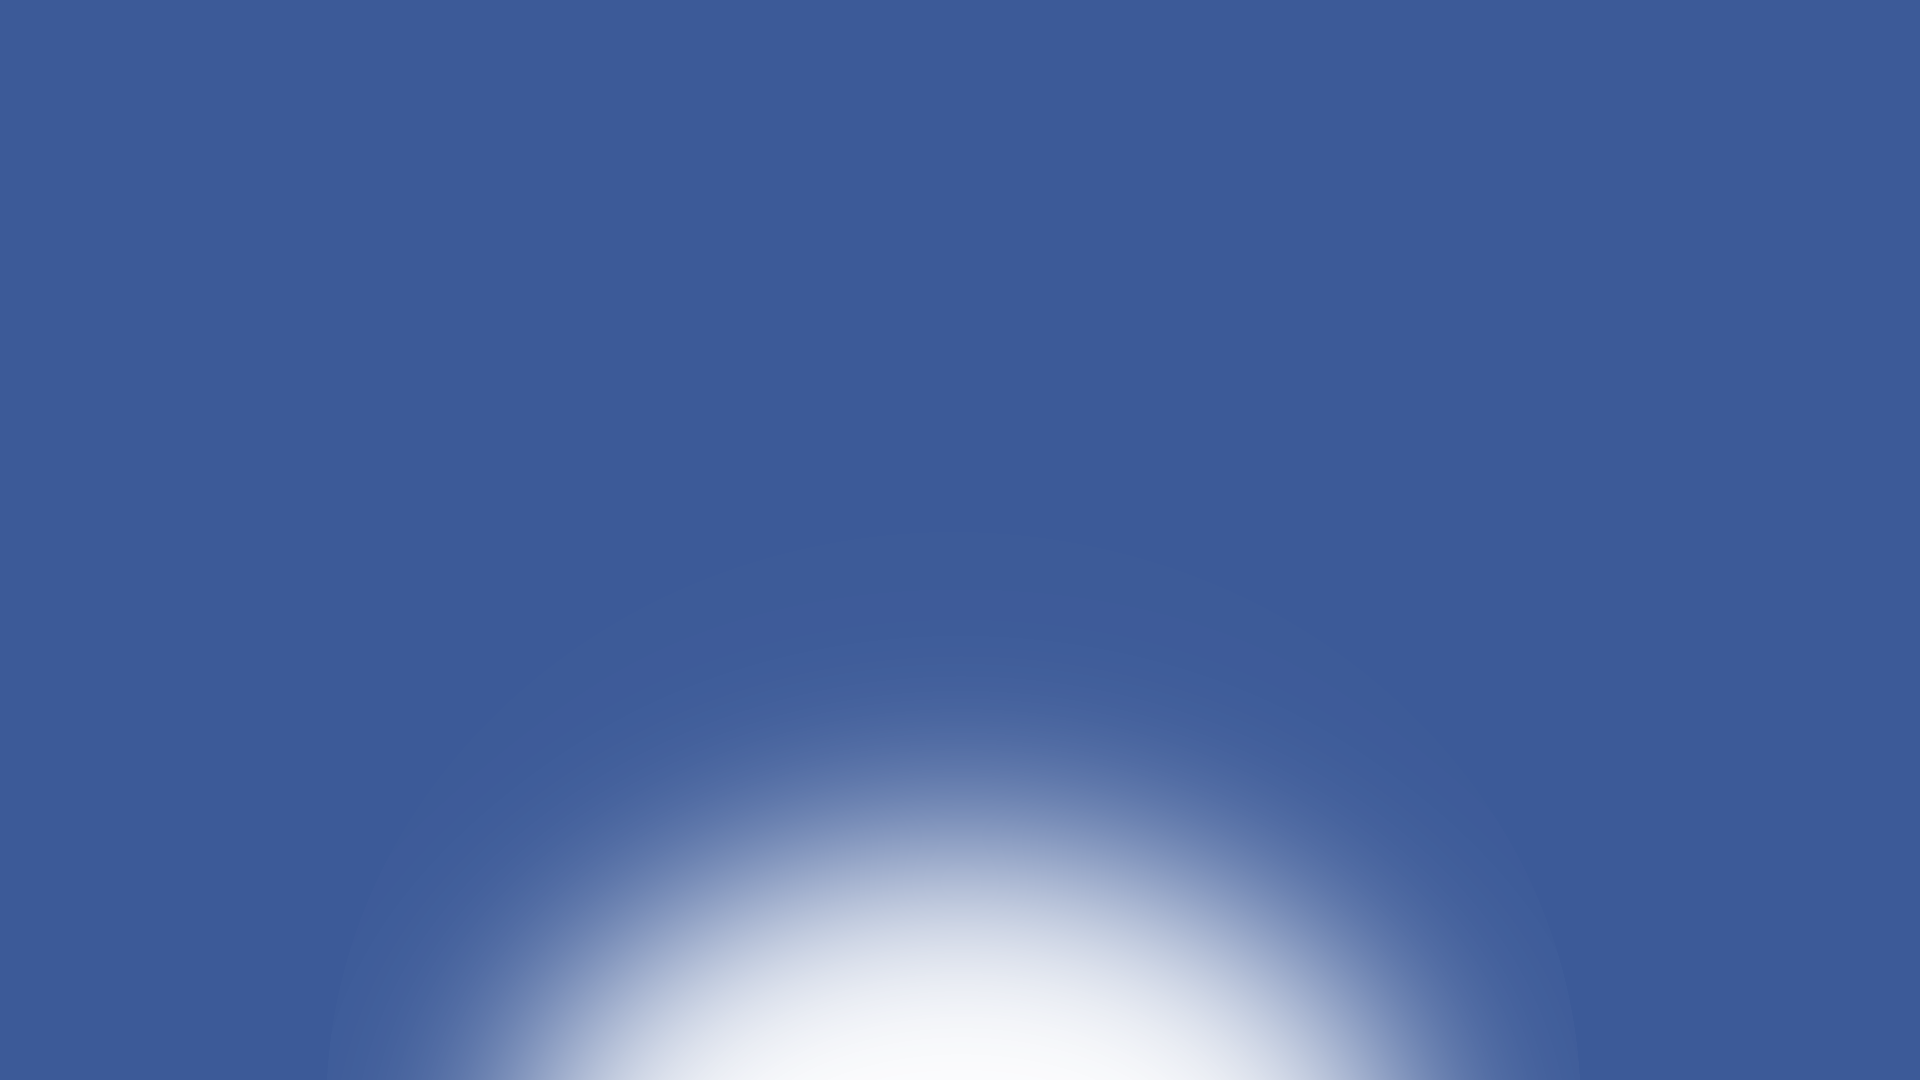
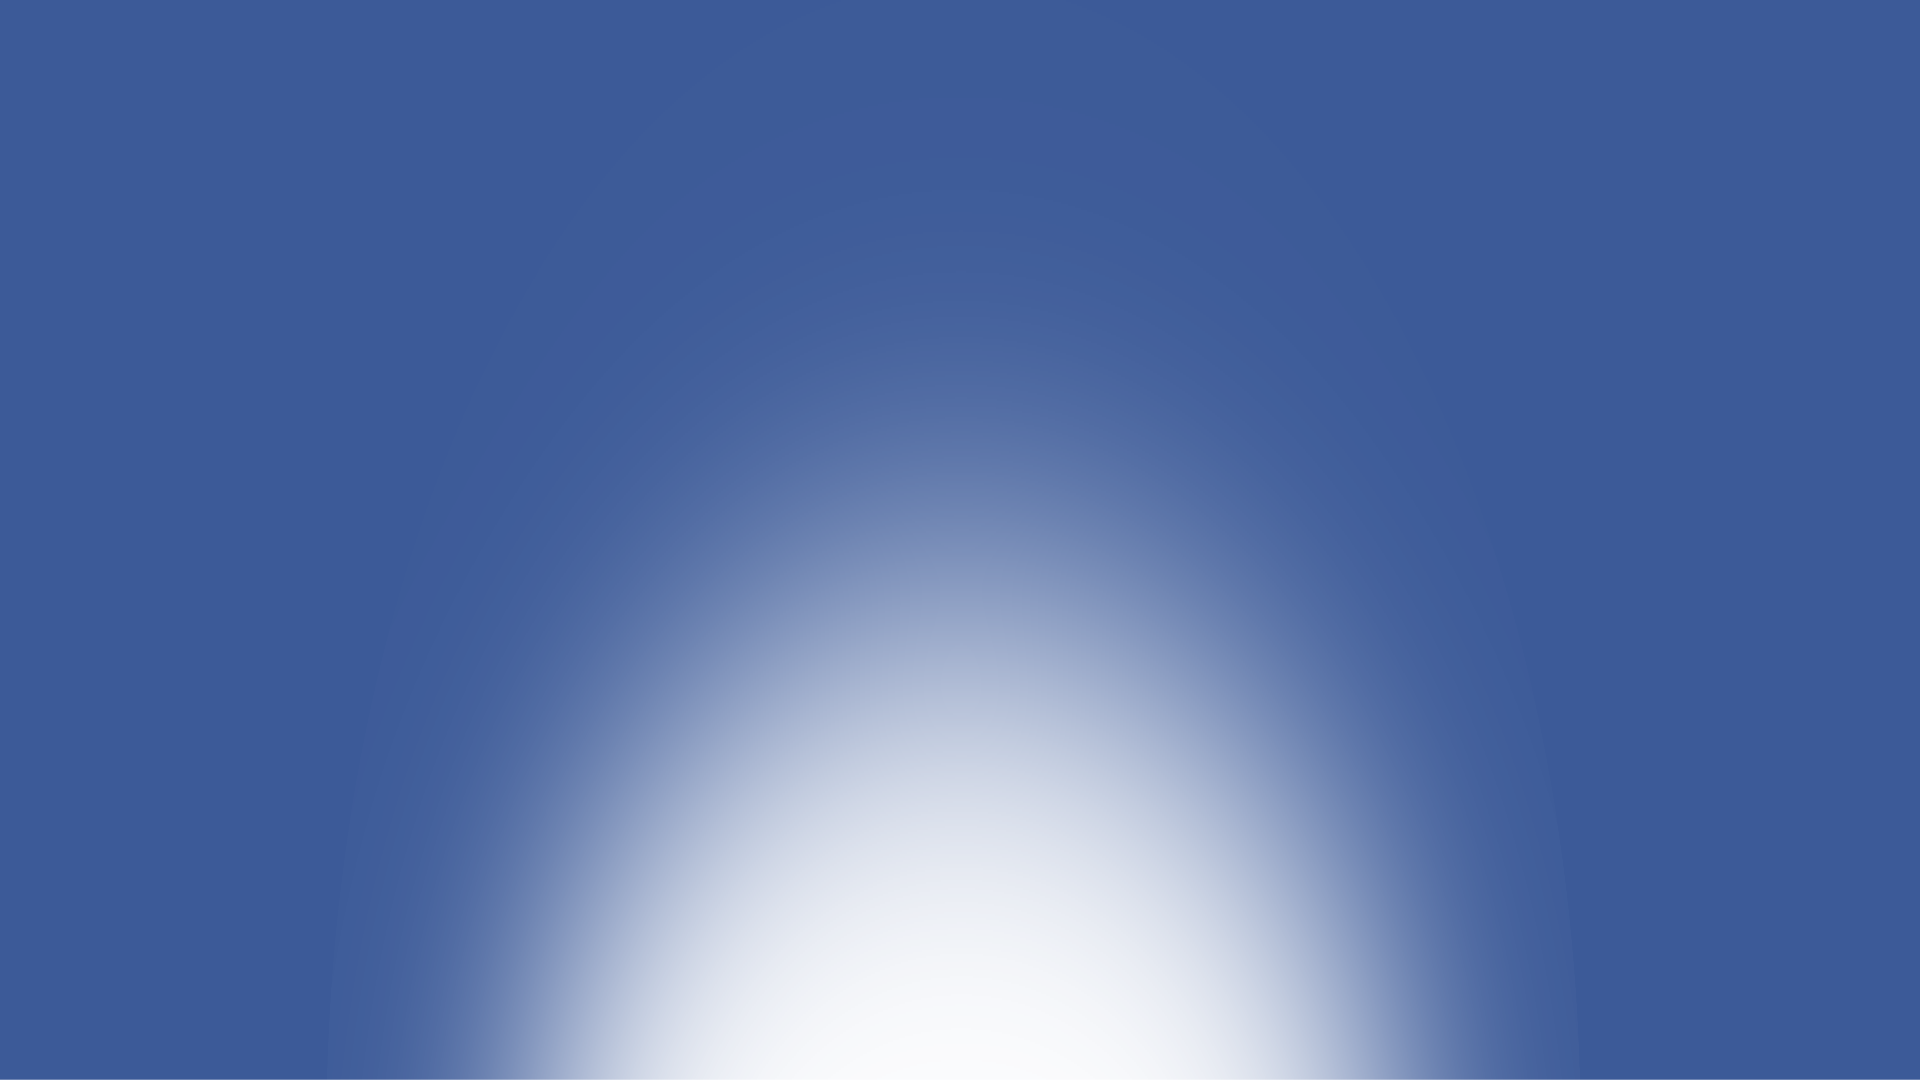
asdasdasd

Changed region(s): [[0.25, 0.3667, 0.75, 0.9167]]

diff --git a/theSite.js b/theSite.js
@@ -1,10 +1,10 @@
 const scene = new THREE.Scene();
-{
-  const color = 0x3876E8;
-  const near = 10;
-  const far = 50;
-  scene.fog = new THREE.Fog(color, near, far);
-}
+// {
+//   const color = 0x3876E8;
+//   const near = 10;
+//   const far = 50;
+//   scene.fog = new THREE.Fog(color, near, far);
+// }
 var camera = new THREE.PerspectiveCamera(50, window.innerWidth/window.innerHeight, 0.1, 10000);
 
 var renderer = new THREE.WebGLRenderer();
@@ -14,12 +14,12 @@ document.body.appendChild(renderer.domElement);
 renderer.autoClear = false;
 composer = new THREE.EffectComposer(renderer);
 var sunRenderModel = new THREE.RenderPass(scene, camera);
-var effectBloom = new THREE.BloomPass(1, 25, 10);
+var effectBloom = new THREE.BloomPass(1.25, 17.5, 10);
 var sceneRenderModel = new THREE.RenderPass(scene, camera);
 var effectCopy = new THREE.ShaderPass(THREE.CopyShader);
 effectCopy.renderToScreen = true;
 composer.addPass(sunRenderModel);
-// composer.addPass(effectBloom);
+composer.addPass(effectBloom);
 composer.addPass(effectCopy);
 
 // var bokehPass = new THREE.BokehPass( scene, camera, {
@@ -46,9 +46,9 @@ window.addEventListener("resize", function (){
 //////////////////////////////////////////////////////////////////////////////////////////////////////////////////////
 
 camera.position.z = 10;
-camera.position.y = 0;
-camera.position.x = 10;
-camera.lookAt(new THREE.Vector3(10,-12,0));
+camera.position.y = 3;
+camera.position.x = 3;
+camera.lookAt(new THREE.Vector3(10,0,0));
 
 // var ambientLight = new THREE.AmbientLight(0xFFFFFF, 0.5);
 // scene.add(ambientLight);
@@ -82,7 +82,7 @@ scene.add(sphere1);
 
 var geometry = new THREE.Geometry();
 material = new THREE.MeshBasicMaterial({
-    color: 0x00316C,
+    color: 0x3C5A98,
     wireframe: true
 });
 
@@ -100,8 +100,8 @@ var smoothRate = 0.025;
 var meshSmoothRate = 0.015;
 var scaler = 0.5;
 var meshTarget = new THREE.Vector3(10,0,10);
-var meshCurr = new THREE.Vector3(0,0,0);
-var camOffset = new THREE.Vector3(0,7,9);
+var meshCurr = new THREE.Vector3(10,0,10);
+var camOffset = new THREE.Vector3(0,3,3);
 var camFollowRate = 0.02;
 var sphereRate = 0.015;
 for (var x = 0;x < xSize;x++){
@@ -146,8 +146,8 @@ var update = function(){
 
         camOffset = new THREE.Vector3(
             (Math.random()*6)-3,
-            ((Math.random()*4)-2)+6,
-            ((Math.random()*4)-2)+8
+            3,
+            3
         );
 
         meshTarget = new THREE.Vector3(
@@ -176,7 +176,7 @@ var update = function(){
 
     camera.lookAt(new THREE.Vector3(
         meshCurr.x,
-        meshCurr.y+3,
+        meshCurr.y+1,
         meshCurr.z
     ));
 
@@ -196,7 +196,7 @@ var update = function(){
 
         var totalDist = startPos[x].distanceTo(new THREE.Vector3(meshCurr.x,0,meshCurr.z));
 
-        var newPos = 3-totalDist;
+        var newPos = 1.5-totalDist;
         // newPos *= 2;
         if (newPos < 0){newPos = 0;}
 
